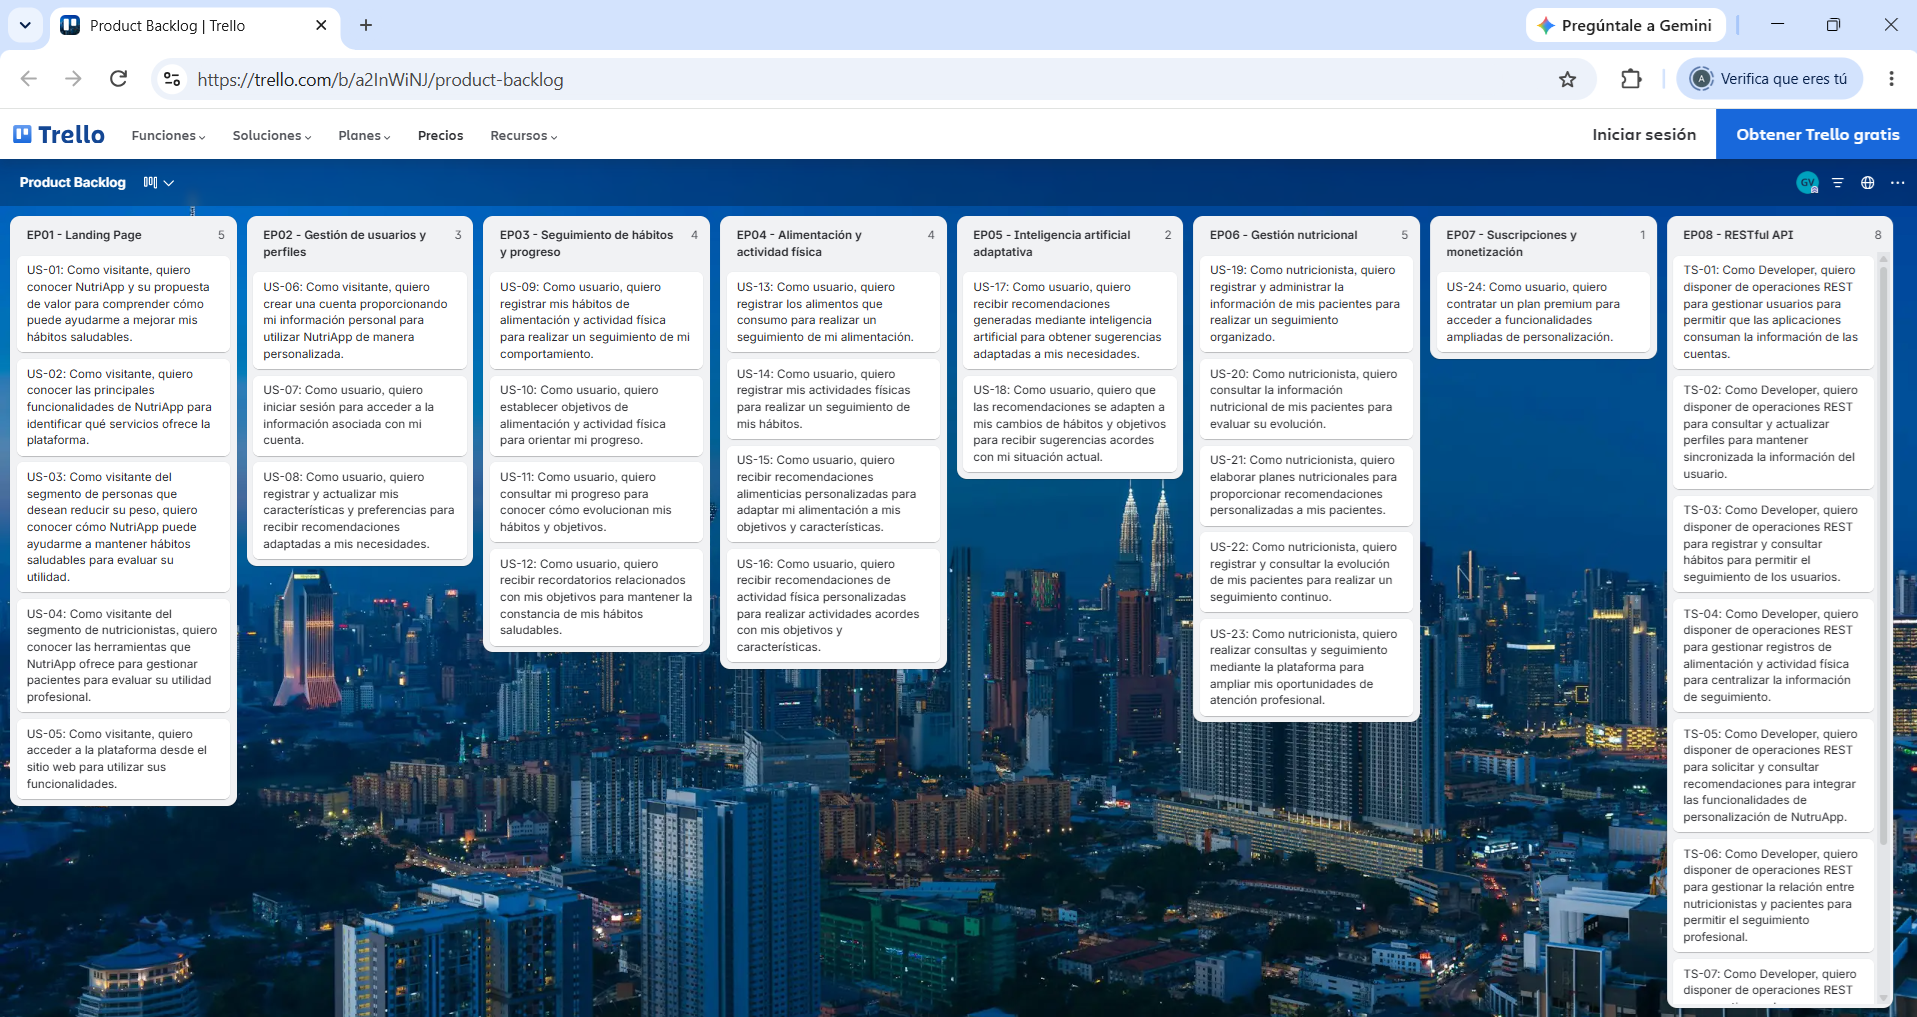
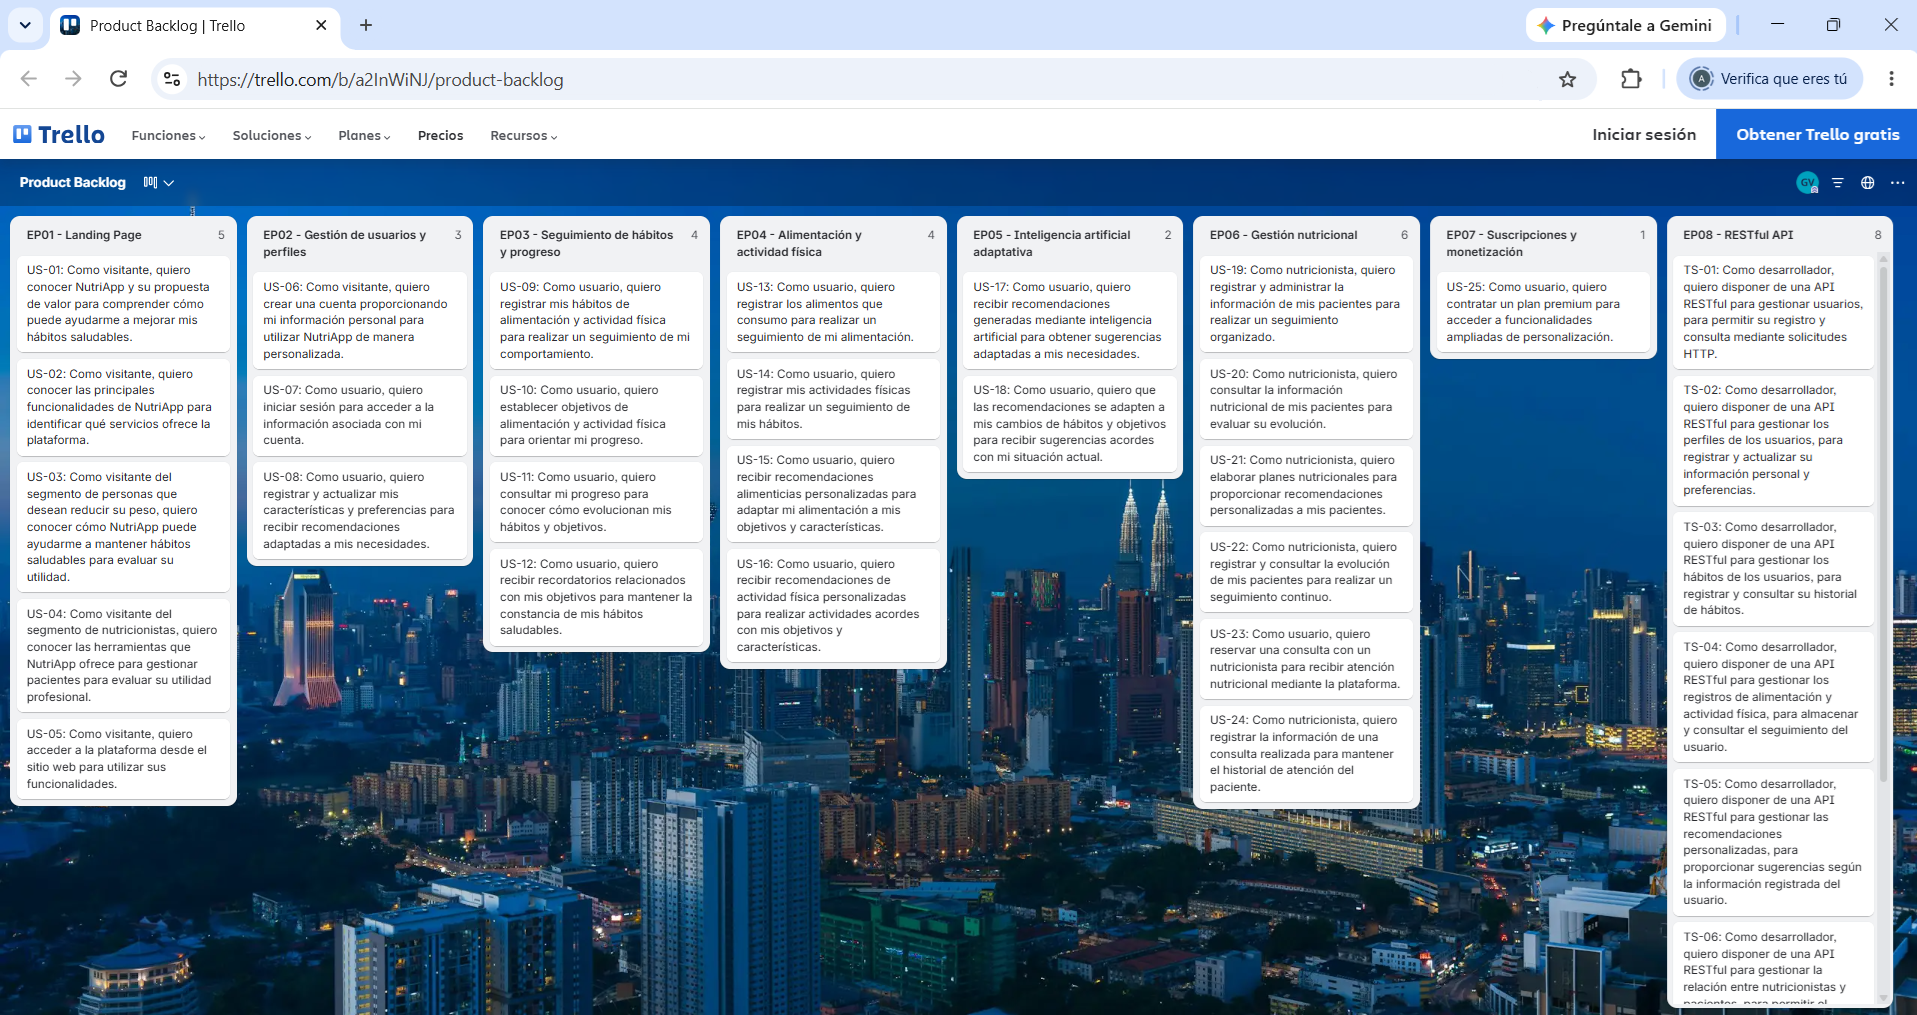
docs: update Product Backlog 2

diff --git a/README.md b/README.md
@@ -740,39 +740,41 @@ En esta sección se presenta el Impact Mapping desarrollado para NutriApp, con e
 
 En esta sección se presenta el Product Backlog de NutriApp Integral, donde se organizan los User Stories identificados para el desarrollo de la solución. Cada User Story cuenta con una estimación de esfuerzo mediante Story Points y una prioridad dentro del orden de implementación. Además, se presenta una tabla que resume la información principal de cada User Story, siguiendo la estructura establecida para el Product Backlog.
 
-| # Orden | User Story ID | Título                                               | Descripción                                                                                                                                                    | Story Points |
-|---------|---------------|------------------------------------------------------|----------------------------------------------------------------------------------------------------------------------------------------------------------------|--------------|
-| 1       | US-06         | Registro de usuario                                  | Como visitante, quiero crear una cuenta proporcionando mi información personal para utilizar NutriApp Integral de manera personalizada.                        | 3            |
-| 2       | US-07         | Inicio de sesión                                     | Como usuario, quiero iniciar sesión para acceder a la información asociada con mi cuenta.                                                                      | 2            |
-| 3       | US-08         | Gestión del perfil personal                          | Como usuario, quiero registrar y actualizar mis características y preferencias para recibir recomendaciones adaptadas a mis necesidades.                       | 5            |
-| 4       | US-10         | Definición de objetivos                              | Como usuario, quiero establecer objetivos de alimentación y actividad física para orientar mi progreso.                                                        | 3            |
-| 5       | US-09         | Registro de hábitos                                  | Como usuario, quiero registrar mis hábitos de alimentación y actividad física para realizar un seguimiento de mi comportamiento.                               | 5            |
-| 6       | US-13         | Registro de alimentación                             | Como usuario, quiero registrar los alimentos que consumo para realizar un seguimiento de mi alimentación.                                                      | 3            |
-| 7       | US-14         | Registro de actividad física                         | Como usuario, quiero registrar mis actividades físicas para realizar un seguimiento de mis hábitos.                                                            | 3            |
-| 8       | US-11         | Consulta del progreso                                | Como usuario, quiero consultar mi progreso para conocer cómo evolucionan mis hábitos y objetivos.                                                              | 5            |
-| 9       | US-15         | Recomendaciones de alimentación                      | Como usuario, quiero recibir recomendaciones alimenticias personalizadas para adaptar mi alimentación a mis objetivos y características.                       | 5            |
-| 10      | US-16         | Recomendaciones de ejercicio                         | Como usuario, quiero recibir recomendaciones de actividad física personalizadas para realizar actividades acordes con mis objetivos y características.         | 5            |
-| 11      | US-17         | Generación de recomendaciones mediante IA            | Como usuario, quiero recibir recomendaciones generadas mediante inteligencia artificial para obtener sugerencias adaptadas a mis características y objetivos.  | 8            |
-| 12      | US-18         | Adaptación de recomendaciones                        | Como usuario, quiero que las recomendaciones se adapten a los cambios de mi información y preferencias para recibir sugerencias cada vez más personalizadas.   | 8            |
-| 13      | US-12         | Recordatorios de hábitos                             | Como usuario, quiero recibir recordatorios relacionados con mis objetivos para mantener la constancia de mis hábitos saludables.                               | 3            |
-| 14      | US-24         | Acceso al plan gratuito                              | Como usuario, quiero acceder a las funcionalidades disponibles en el plan gratuito para utilizar NutriApp Integral sin contratar una suscripción.              | 2            |
-| 15      | US-25         | Suscripción premium                                  | Como usuario, quiero suscribirme al plan premium para acceder a funcionalidades adicionales de personalización y seguimiento.                                  | 5            |
-| 16      | US-01         | Información general de NutriApp Integral             | Como visitante, quiero conocer información general de NutriApp Integral para comprender el propósito y beneficio de la plataforma.                             | 2            |
-| 17      | US-02         | Presentación de funcionalidades                      | Como visitante, quiero conocer las funcionalidades de NutriApp Integral para identificar cómo puede ayudarme a mejorar mis hábitos saludables.                 | 2            |
-| 18      | US-03         | Información para personas que desean reducir su peso | Como visitante interesado en reducir mi peso, quiero conocer cómo NutriApp Integral puede ayudarme para evaluar si la plataforma responde a mis necesidades.   | 2            |
-| 19      | US-04         | Información para nutricistas                         | Como nutricista, quiero conocer las funcionalidades dirigidas a profesionales para evaluar cómo NutriApp Integral puede apoyar mi trabajo.                     | 2            |
-| 20      | US-05         | Acceso a la plataforma                               | Como visitante, quiero acceder a la plataforma desde la página principal para utilizar sus funcionalidades.                                                    | 2            |
-| 21      | US-19         | Registro de pacientes                                | Como nutricista, quiero registrar pacientes para gestionar su información nutricional dentro de la plataforma.                                                 | 5            |
-| 22      | US-20         | Consulta de información nutricional                  | Como nutricista, quiero consultar la información nutricional de mis pacientes para realizar un seguimiento adecuado.                                           | 5            |
-| 23      | US-21         | Elaboración de plan nutricional                      | Como nutricista, quiero elaborar planes nutricionales para proporcionar recomendaciones acordes con las necesidades de mis pacientes.                          | 8            |
-| 24      | US-22         | Seguimiento del paciente                             | Como nutricista, quiero realizar seguimiento de mis pacientes para conocer su evolución y ajustar sus planes nutricionales.                                    | 8            |
-| 25      | US-23         | Consultas digitales                                  | Como nutricista, quiero realizar consultas mediante la plataforma para atender a mis pacientes de manera digital.                                              | 8            |
-| 19      | US-04         | Información para nutricionistas                      | Como nutricionista, quiero conocer las funcionalidades dirigidas a profesionales para evaluar cómo NutriApp Integral puede apoyar mi trabajo.                  | 2            |
-| 21      | US-19         | Registro de pacientes                                | Como nutricionista, quiero registrar pacientes para gestionar su información nutricional dentro de la plataforma.                                              | 5            |
-| 22      | US-20         | Consulta de información nutricional                  | Como nutricionista, quiero consultar la información nutricional de mis pacientes para realizar un seguimiento adecuado.                                        | 5            |
-| 23      | US-21         | Elaboración de plan nutricional                      | Como nutricionista, quiero elaborar planes nutricionales para proporcionar recomendaciones acordes con las necesidades de mis pacientes.                       | 8            |
-| 24      | US-22         | Seguimiento del paciente                             | Como nutricionista, quiero realizar seguimiento de mis pacientes para conocer su evolución y ajustar sus planes nutricionales.                                 | 8            |
-| 25      | US-23         | Consultas digitales                                  | Como nutricionista, quiero realizar consultas mediante la plataforma para atender a mis pacientes de manera digital.                                           | 8            |
+| # Orden | User Story ID | Título                                               | Descripción                                                                                                                                                                          | Story Points |
+|---------|---------------|------------------------------------------------------|--------------------------------------------------------------------------------------------------------------------------------------------------------------------------------------|--------------|
+| 1       | US-06         | Registro de usuario                                  | Como visitante, quiero crear una cuenta proporcionando mi información personal para utilizar NutriApp Integral de manera personalizada.                                              | 3            |
+| 2       | US-07         | Inicio de sesión                                     | Como usuario, quiero iniciar sesión para acceder a la información asociada con mi cuenta.                                                                                            | 2            |
+| 3       | US-08         | Gestión del perfil personal                          | Como usuario, quiero registrar y actualizar mis características y preferencias para recibir recomendaciones adaptadas a mis necesidades.                                             | 5            |
+| 4       | US-10         | Definición de objetivos                              | Como usuario, quiero establecer objetivos de alimentación y actividad física para orientar mi progreso.                                                                              | 3            |
+| 5       | US-09         | Registro de hábitos                                  | Como usuario, quiero registrar mis hábitos de alimentación y actividad física para realizar un seguimiento de mi comportamiento.                                                     | 5            |
+| 6       | US-13         | Registro de alimentación                             | Como usuario, quiero registrar los alimentos que consumo para realizar un seguimiento de mi alimentación.                                                                            | 3            |
+| 7       | US-14         | Registro de actividad física                         | Como usuario, quiero registrar mis actividades físicas para realizar un seguimiento de mis hábitos.                                                                                  | 3            |
+| 8       | US-11         | Consulta del progreso                                | Como usuario, quiero consultar mi progreso para conocer cómo evolucionan mis hábitos y objetivos.                                                                                    | 5            |
+| 9       | US-15         | Recomendaciones de alimentación                      | Como usuario, quiero recibir recomendaciones alimenticias personalizadas para adaptar mi alimentación a mis objetivos y características.                                             | 5            |
+| 10      | US-16         | Recomendaciones de ejercicio                         | Como usuario, quiero recibir recomendaciones de actividad física personalizadas para realizar actividades acordes con mis objetivos y características.                               | 5            |
+| 11      | US-17         | Generación de recomendaciones mediante IA            | Como usuario, quiero recibir recomendaciones generadas mediante inteligencia artificial para obtener sugerencias adaptadas a mis características y objetivos.                        | 8            |
+| 12      | US-18         | Adaptación de recomendaciones                        | Como usuario, quiero que las recomendaciones se adapten a los cambios de mi información y preferencias para recibir sugerencias cada vez más personalizadas.                         | 8            |
+| 13      | US-12         | Recordatorios de hábitos                             | Como usuario, quiero recibir recordatorios relacionados con mis objetivos para mantener la constancia de mis hábitos saludables.                                                     | 3            |
+| 14      | US-24         | Acceso al plan gratuito                              | Como usuario, quiero acceder a las funcionalidades disponibles en el plan gratuito para utilizar NutriApp Integral sin contratar una suscripción.                                    | 2            |
+| 15      | US-25         | Suscripción premium                                  | Como usuario, quiero suscribirme al plan premium para acceder a funcionalidades adicionales de personalización y seguimiento.                                                        | 5            |
+| 16      | US-01         | Información general de NutriApp Integral             | Como visitante, quiero conocer información general de NutriApp Integral para comprender el propósito y beneficio de la plataforma.                                                   | 2            |
+| 17      | US-02         | Presentación de funcionalidades                      | Como visitante, quiero conocer las funcionalidades de NutriApp Integral para identificar cómo puede ayudarme a mejorar mis hábitos saludables.                                       | 2            |
+| 18      | US-03         | Información para personas que desean reducir su peso | Como visitante interesado en reducir mi peso, quiero conocer cómo NutriApp Integral puede ayudarme para evaluar si la plataforma responde a mis necesidades.                         | 2            |
+| 19      | US-04         | Información para nutricionistas                      | Como nutricionista, quiero conocer las funcionalidades dirigidas a profesionales para evaluar cómo NutriApp Integral puede apoyar mi trabajo.                                        | 2            |
+| 21      | US-19         | Registro de pacientes                                | Como nutricionista, quiero registrar pacientes para gestionar su información nutricional dentro de la plataforma.                                                                    | 5            |
+| 22      | US-20         | Consulta de información nutricional                  | Como nutricionista, quiero consultar la información nutricional de mis pacientes para realizar un seguimiento adecuado.                                                              | 5            |
+| 23      | US-21         | Elaboración de plan nutricional                      | Como nutricionista, quiero elaborar planes nutricionales para proporcionar recomendaciones acordes con las necesidades de mis pacientes.                                             | 8            |
+| 24      | US-22         | Seguimiento del paciente                             | Como nutricionista, quiero realizar seguimiento de mis pacientes para conocer su evolución y ajustar sus planes nutricionales.                                                       | 8            |
+| 25      | US-23         | Reserva de consulta digital                          | Como usuario, quiero reservar una consulta con un nutricionista para recibir atención nutricional mediante la plataforma.                                                            | 8            |
+| 26      | US-24         | Registro de consulta digital                         | Como nutricionista, quiero registrar la información de una consulta realizada para mantener el historial de atención del paciente.                                                   | 5            |
+| 27      | TS-01         | API de usuarios                                      | Como desarrollador, quiero disponer de una API RESTful para gestionar usuarios, para permitir su registro y consulta mediante solicitudes HTTP.                                      | 5            |
+| 28      | TS-02         | API de perfiles                                      | Como desarrollador, quiero disponer de una API RESTful para gestionar los perfiles de los usuarios, para registrar y actualizar su información personal y preferencias.              | 5            |
+| 29      | TS-03         | API de hábitos                                       | Como desarrollador, quiero disponer de una API RESTful para gestionar los hábitos de los usuarios, para registrar y consultar su historial de hábitos.                               | 5            |
+| 30      | TS-04         | API de alimentación y actividad física               | Como desarrollador, quiero disponer de una API RESTful para gestionar los registros de alimentación y actividad física, para almacenar y consultar el seguimiento del usuario.       | 5            |
+| 31      | TS-05         | API de recomendaciones                               | Como desarrollador, quiero disponer de una API RESTful para gestionar las recomendaciones personalizadas, para proporcionar sugerencias según la información registrada del usuario. | 8            |
+| 32      | TS-06         | API de nutricionistas y pacientes                    | Como desarrollador, quiero disponer de una API RESTful para gestionar la relación entre nutricionistas y pacientes, para permitir el seguimiento nutricional autorizado.             | 5            |
+| 33      | TS-07         | API de planes nutricionales                          | Como desarrollador, quiero disponer de una API RESTful para gestionar los planes nutricionales, para permitir su creación y consulta por parte de nutricionistas autorizados.        | 8            |
+| 34      | TS-08         | API de suscripciones                                 | Como desarrollador, quiero disponer de una API RESTful para gestionar las suscripciones de los usuarios, para permitir el acceso y cambio entre planes.                              | 5            |
 
 Para acceder al Product Backlog: [Product Backlog - Trello](https://trello.com/b/a2InWiNJ/product-backlog)
 
